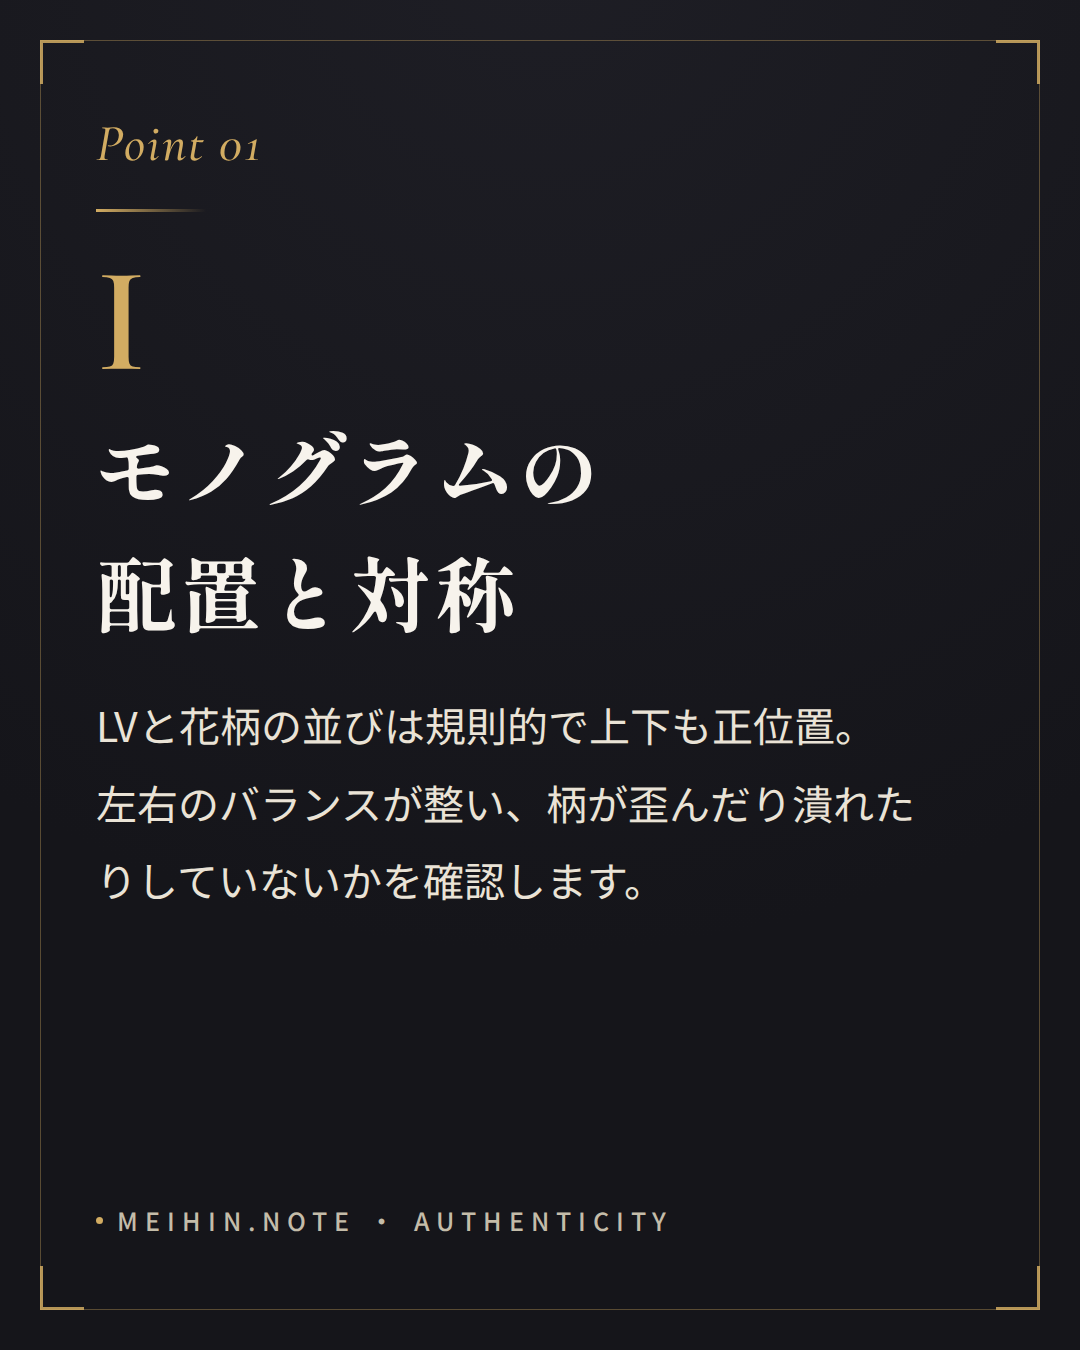
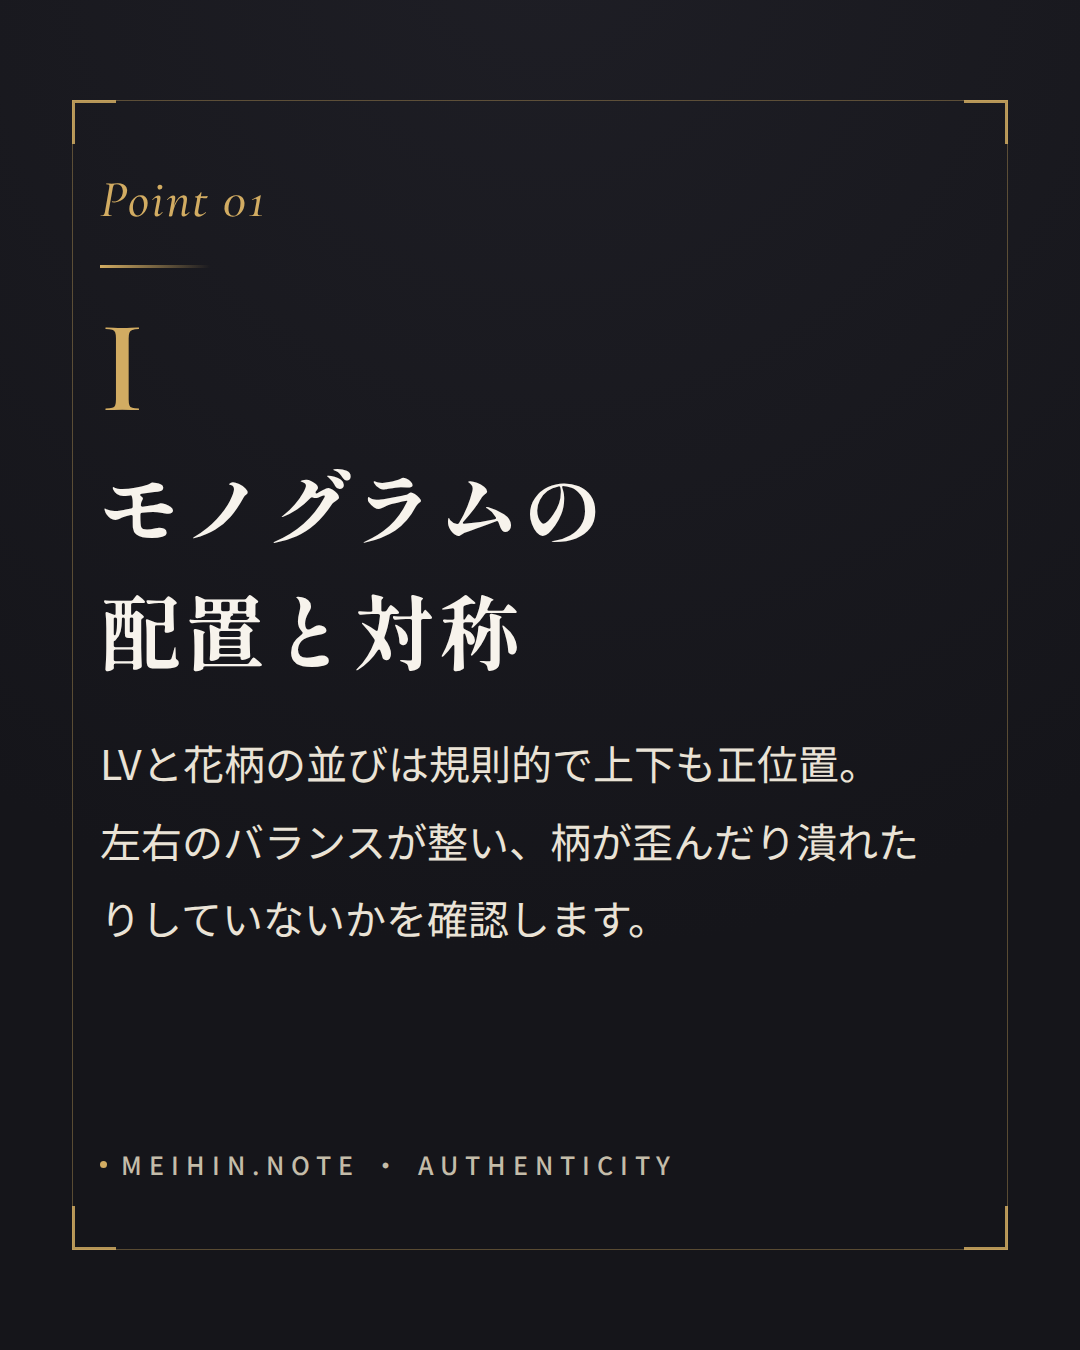
캐러셀 슬라이드 안전영역 적용 + 표지 스와이프 표시 (001 적용)
- 위아래 크롭 대비 safe zone(콘텐츠 padding 168px, 프레임 인셋 100px)
- 표지 하단 'スワイプでチェック →' 유도 표시 추가
- 001 이미지 재생성(002~010은 확인 후 일괄 반영 예정)

Claude-Session: https://claude.ai/code/session_01EojnZ719pe8skHKV6dNbgC

diff --git a/tools/slides.js b/tools/slides.js
@@ -16,16 +16,17 @@ const CSS = `
 :root{--ink:#0B0B0D;--panel:#15151A;--panel2:#1E1E25;--ivory:#F7F3EC;--body:#EAE3D6;--muted:#C4BCA9;--gold:#D2AC62;--goldsoft:#8A7442;--line:#33333C}
 *{margin:0;box-sizing:border-box}
 body{background:#000;font-family:'NotoJP',sans-serif}
-.slide{position:relative;width:1080px;height:1350px;overflow:hidden;padding:112px 96px;display:flex;flex-direction:column;
+/* 안전영역: 위아래 크롭 대비 — 콘텐츠는 padding 안, 프레임은 상하 100px 인셋 */
+.slide{position:relative;width:1080px;height:1350px;overflow:hidden;padding:168px 100px;display:flex;flex-direction:column;
   background:radial-gradient(130% 105% at 50% -5%,var(--panel2),var(--panel) 72%);color:var(--ivory)}
-.slide::before{content:"";position:absolute;inset:40px;border:1.5px solid rgba(210,172,98,.36);pointer-events:none}
+.slide::before{content:"";position:absolute;inset:100px 72px;border:1.5px solid rgba(210,172,98,.36);pointer-events:none}
 .corner{position:absolute;width:44px;height:44px;border:3px solid var(--gold);opacity:.85}
-.c1{top:40px;left:40px;border-right:0;border-bottom:0}.c2{top:40px;right:40px;border-left:0;border-bottom:0}
-.c3{bottom:40px;left:40px;border-right:0;border-top:0}.c4{bottom:40px;right:40px;border-left:0;border-top:0}
+.c1{top:100px;left:72px;border-right:0;border-bottom:0}.c2{top:100px;right:72px;border-left:0;border-bottom:0}
+.c3{bottom:100px;left:72px;border-right:0;border-top:0}.c4{bottom:100px;right:72px;border-left:0;border-top:0}
 .eyebrow{font-family:'Cormo',serif;font-style:italic;font-size:52px;color:var(--gold);letter-spacing:.04em}
 .rule{width:110px;height:3px;background:linear-gradient(90deg,var(--gold),transparent);margin:34px 0}
 .rule.center{margin-left:auto;margin-right:auto}
-.num{font-family:'Cormo',serif;font-weight:600;font-size:150px;color:var(--gold);line-height:1}
+.num{font-family:'Cormo',serif;font-weight:600;font-size:132px;color:var(--gold);line-height:1}
 .stitle{font-family:'MinchoB',serif;font-weight:800;font-size:82px;line-height:1.5;letter-spacing:.03em;color:var(--ivory);margin:.12em 0}
 .sbody{font-family:'NotoJP',sans-serif;font-weight:400;font-size:41px;color:var(--body);line-height:1.9;margin-top:24px;max-width:820px}
 .spacer{flex:1 1 auto}
@@ -40,6 +41,10 @@ body{background:#000;font-family:'NotoJP',sans-serif}
 /* cta */
 .cta{align-items:center;justify-content:center;text-align:center}
 .cta .stitle{font-size:78px}
+/* 표지 스와이프 안내 */
+.swipe{position:absolute;left:0;right:0;bottom:150px;text-align:center}
+.swipe span{display:inline-flex;align-items:center;gap:22px;border:1.5px solid var(--goldsoft);border-radius:999px;padding:19px 42px;color:var(--gold);font-family:'NotoJP',sans-serif;font-weight:500;font-size:35px;letter-spacing:.14em}
+.swipe .arw{font-family:'NotoJP',sans-serif;font-size:40px;line-height:1}
 .handle{font-family:'Cormo',serif;font-size:80px;color:var(--gold);margin-top:20px}
 .save{margin-top:40px;border:2px solid var(--gold);color:var(--ivory);font-size:30px;letter-spacing:.24em;padding:22px 40px}
 .muted{color:var(--muted)}
@@ -57,7 +62,8 @@ function slidesHTML(it) {
   <div class="spacer"></div><div class="mark"><span class="dot"></span>${markName} ・ ${p.badge}</div></section>`).join("\n");
   return `<title>slides ${it.id}</title><style>${CSS}</style>
 <section class="slide cover">${corners()}
-  <div class="badge">保存版 ・ ${p.badge}</div><div class="ch3">${p.coverH}</div><div class="csub">${it.sub} ・ ${p.unit}</div></section>
+  <div class="badge">保存版 ・ ${p.badge}</div><div class="ch3">${p.coverH}</div><div class="csub">${it.sub} ・ ${p.unit}</div>
+  <div class="swipe"><span>スワイプでチェック <b class="arw">→</b></span></div></section>
 ${pts}
 <section class="slide cta">${corners()}
   <div class="eyebrow">Save it</div><div class="rule center"></div>
